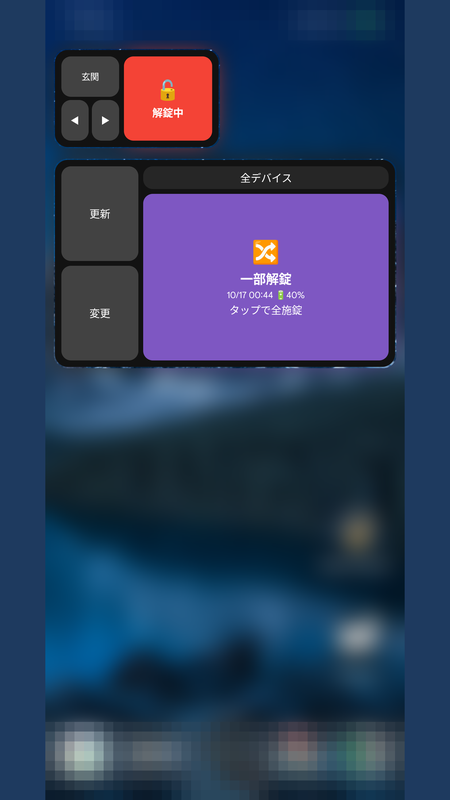
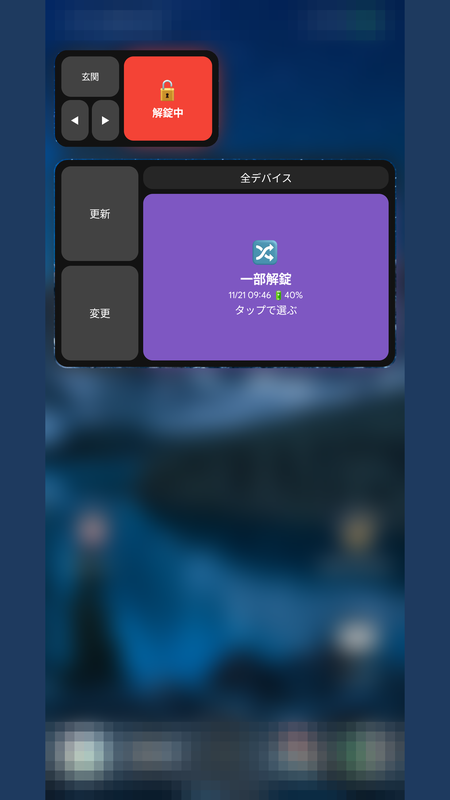
feat: 施錠・解錠を選ぶ画面への統一と操作パネル、Web API不達の切り分け、スマホ不達の通知 (BL-290〜BL-313) (#108)
* docs: 📝 Sesame公式の変更履歴とGitHubの調査結果を記録し、BL-290 / BL-291 を起票する

Sesame公式の変更履歴（2026年10月・11月）と、CANDY-HOUSE/API_document の docs/ja 配下、
SesameSDK_Android_with_DemoApp の2026-09以降の変更を確認し、本アプリへの影響を判定した。
API仕様・BLEの手順に変更は無く、影響なしと判断した項目は CHANGELOG.md に要約した。

- BL-290: Web APIの仕様の出典を公式ドキュメントへ更新する（DESIGN.md / README.md / SesameStatus のKDoc）
- BL-291（要確認）: Web API応答の batteryPercentage を電池残量の表示に使うか

Claude-Session: https://claude.ai/code/session_01WnqNbZ6ebvCGnSnCY76eMN

* docs: 📝 Sesame Web APIの仕様の出典を公式ドキュメントへ更新する

BL-290。CANDY-HOUSE/API_document の webapi.md が本アプリの実装（エンドポイント、
x-api-key、コマンド番号、本文、署名）と一致することを確認し、pysesame3を参考実装、
公式ドキュメントを一次情報として書き分けた。README.md の「公式ドキュメント未参照」と
旧ホストの認証リダイレクトの記述、DESIGN.md の同趣旨の記述、core.api.SesameStatus の
KDoc を更新した。webapi.md と restful.md（公式アプリ内部API、廃止済み）の取り違え注意と、
sign の桁数の観察をDESIGN.mdへ残した。動作の変更は無い。

Claude-Session: https://claude.ai/code/session_01WnqNbZ6ebvCGnSnCY76eMN

* docs: 📝 Sesame上流の定期調査をスキルとサブエージェントとして残す

Sesame公式のChangeLog・API_document・Android SDKの変更確認を、ユーザーの指示で
繰り返し実行できるようにする。起票したid: BL-292（同コミットで完了として削除）。

- Skill sesame-upstream-check: 確認先と照合点、基準点(baseline.md)からの差分調査、
  判定の型、外部取得物の扱い、コスト管理
- Agent sesame-upstream-researcher: 調査と判定のみ。書き込み権限なし
- guardrail-sync-local: 両者を配布元を採らないファイルへ追加
- CHANGELOG.md へ記録

Claude-Session: https://claude.ai/code/session_01WnqNbZ6ebvCGnSnCY76eMN

* docs: 📝 Sesame上流調査のレビュー指摘を反映し、基準点を確認済みの最新へ直す

BL-290 / BL-291 / BL-292 に関する記録の整合を取る。

- CHANGELOG: BL-290 は同ブランチで実施済み、BL-291 のみ要確認で起票と書き分けた
[…]

diff --git a/index.html b/index.html
@@ -51,7 +51,7 @@
           <h1>Sesami Wear<br>手首から<br>鍵をかける</h1>
           <p class="lead">
             Pixel Watch のタイルやスマートフォンのホーム画面ウィジェットから、CANDY HOUSE の
-            Sesame スマートロックをワンタップで施錠・解錠。結果は振動で伝わるので、画面を見返す必要はありません。
+            Sesame スマートロックを施錠・解錠。結果は振動で伝わるので、画面を見返す必要はありません。
           </p>
           <div class="actions">
             <a class="button primary" href="https://github.com/filderschoice/sesami-wear/blob/main/docs/CLOSED_TEST.md">クローズドテストに参加</a>
@@ -69,29 +69,29 @@
     <section id="flow">
       <div class="container">
         <h2>操作の流れ</h2>
-        <p class="section-lead">解錠までの操作は 3 ステップです。施錠は確認なしの 1 タップで、結果は振動で伝わります。</p>
+        <p class="section-lead">タップして、施錠か解錠かを選ぶだけです。結果は振動で伝わります。全台をまとめて操作するときは、操作パネルのタイルが便利です。</p>
         <div class="flow-grid">
-          <div class="demo" role="img" aria-label="ウォッチの操作イメージ。タイルをタップし、確認画面で全解錠を押すと、タイルが解錠中の表示に変わる（約9秒で繰り返すアニメーション）">
+          <div class="demo" role="img" aria-label="ウォッチの操作イメージ。タイルをタップすると施錠・解錠を選ぶ画面が開き、全施錠か全解錠を押して実行する。全台と台ごとの操作は操作パネルのタイルにもまとまっている（約9秒で繰り返すアニメーション）">
             <img class="demo-frame f1" src="assets/wear-tile-locked.png" alt="" width="384" height="384">
             <img class="demo-frame f2" src="assets/wear-unlock-confirm.png" alt="" width="384" height="384">
-            <img class="demo-frame f3" src="assets/wear-3-tile-unlocked.png" alt="" width="384" height="384">
+            <img class="demo-frame f3" src="assets/wear-control-panel.png" alt="" width="384" height="384">
             <p class="demo-caption c1">① タイルの大きなボタンをタップ</p>
-            <p class="demo-caption c2">② 確認画面で「全解錠」を押す</p>
-            <p class="demo-caption c3">③ 解錠。成功は振動でも伝わる</p>
+            <p class="demo-caption c2">② 「全施錠」か「全解錠」を押す</p>
+            <p class="demo-caption c3">③ 操作パネルなら全台も台ごとも1枚で</p>
           </div>
           <ol class="flow-steps">
-            <li><strong>タップ</strong>タイルのボタンが、現在の状態と次の操作を示します。</li>
-            <li><strong>確認</strong>解錠だけは確認を挟み、手首が当たった程度では開きません。施錠は確認なしです。</li>
+            <li><strong>タップ</strong>タイルのボタンが現在の状態を示し、タップすると施錠・解錠を選ぶ画面が開きます。</li>
+            <li><strong>選ぶ</strong>施錠・解錠を選ぶ画面で押したときだけ実行します。手首が当たった程度では開きません。</li>
             <li><strong>結果</strong>成功と失敗は異なる振動パターンで伝わります。画面を見返す必要はありません。</li>
           </ol>
         </div>
         <h3 class="spaced">スマートフォンのウィジェットでも同じ操作</h3>
         <ul class="flow-row">
-          <li><img class="phone" src="assets/phone-widget.png" alt="ホーム画面のウィジェット。全デバイスが施錠中で、全解錠のボタンが緑色に表示されている" width="450" height="800" loading="lazy"><span>① 施錠中のウィジェットをタップ</span></li>
+          <li><img class="phone" src="assets/phone-widget.png" alt="ホーム画面のウィジェット。全デバイスが施錠中で、緑色のボタンに「タップで選ぶ」と表示されている" width="450" height="800" loading="lazy"><span>① ウィジェットをタップ</span></li>
           <li class="arrow" aria-hidden="true">→</li>
-          <li><img class="phone" src="assets/phone-2-widget-unlock-confirm.png" alt="ウィジェットの下に「全デバイスを解錠しますか？」の確認ダイアログが出ている" width="450" height="800" loading="lazy"><span>② 確認ダイアログで「全解錠」</span></li>
+          <li><img class="phone" src="assets/phone-2-widget-unlock-confirm.png" alt="ウィジェットの上に「全デバイスの操作を選んでください」の画面が出ていて、キャンセル・全施錠・全解錠のボタンが並ぶ" width="450" height="800" loading="lazy"><span>② 「全施錠」か「全解錠」を押す</span></li>
           <li class="arrow" aria-hidden="true">→</li>
-          <li><img class="phone" src="assets/phone-3-widget-unlocked.png" alt="ウィジェットが赤色の「解錠中」の表示に変わっている" width="450" height="800" loading="lazy"><span>③ 赤い「解錠中」に変わる</span></li>
+          <li><img class="phone" src="assets/phone-3-widget-unlocked.png" alt="小さいウィジェットは玄関が赤色の「解錠中」、大きいウィジェットは全デバイスが紫色の「一部解錠」の表示になっている" width="450" height="800" loading="lazy"><span>③ 結果の状態に変わる</span></li>
         </ul>
       </div>
     </section>
@@ -105,8 +105,8 @@
         <ul class="features">
           <li class="card">
             <span class="tag">タイル</span>
-            <h3>ワンタップで施錠・解錠</h3>
-            <p>Wear OS のタイルから操作します。施錠は即時、解錠は誤操作を防ぐため確認を挟みます。通信中はボタンを無効にして二重送信を防ぎます。ウォッチのアプリの一覧からも、セサミの欄をタップして同じように操作でき、末尾の「更新」「全施錠」「すべて更新」でまとめて扱えます。</p>
+            <h3>タイルから施錠・解錠</h3>
+            <p>Wear OS のタイルから操作します。タップすると施錠・解錠を選ぶ画面が開き、押したときだけ実行するので誤操作を防げます。全台と台ごとの施錠・解錠を1枚にまとめた操作専用のタイル「Sesami 操作パネル」もあります。通信中はボタンを無効にして二重送信を防ぎます。ウォッチのアプリの一覧からも、セサミの欄をタップして同じように操作でき、末尾の「更新」「全台の鍵を操作」「すべて更新」でまとめて扱えます。</p>
           </li>
           <li class="card">
             <span class="tag">振動</span>
@@ -172,13 +172,13 @@
       <div class="container">
         <h2>画面</h2>
         <h3>ウォッチ</h3>
-        <p class="section-lead">Pixel Watch 2 での表示です（0.14.0。コンプリケーションは以前の版で撮影）。</p>
+        <p class="section-lead">Pixel Watch 2 での表示です（タイル・選ぶ画面・操作パネルは 0.17.0、そのほかは以前の版で撮影）。</p>
         <!-- TEMPLATE: 画面のスクリーンショット（1 枚 = 1 つの li。不要ならセクションごと削除） -->
         <ul class="features">
           <li class="card">
-            <img src="assets/wear-tile-locked.png" alt="ウォッチのタイル。全デバイスが施錠中で、タップで全解錠できることを示す緑のボタンと、更新・変更のボタンが並ぶ" width="384" height="384">
+            <img src="assets/wear-tile-locked.png" alt="ウォッチのタイル。全デバイスが施錠中で、「タップで選ぶ」と表示された緑のボタンと、更新・変更のボタンが並ぶ" width="384" height="384">
             <h3>タイル（施錠中）</h3>
-            <p>大きなボタンが状態と次の操作を示します。</p>
+            <p>大きなボタンが状態を示し、タップで施錠・解錠を選べます。</p>
           </li>
           <li class="card">
             <img src="assets/wear-tile-mixed.png" alt="ウォッチのタイル。全デバイスのうち一部だけが解錠されている状態を紫のボタンで示している" width="384" height="384">
@@ -186,9 +186,9 @@
             <p>複数台の状態が揃っていないことも一目で分かります。</p>
           </li>
           <li class="card">
-            <img src="assets/wear-unlock-confirm.png" alt="解錠の確認画面。左にキャンセル、右に赤い全解錠のボタンがある" width="384" height="384">
-            <h3>解錠の確認</h3>
-            <p>解錠だけは確認を挟み、誤操作を防ぎます。</p>
+            <img src="assets/wear-unlock-confirm.png" alt="施錠・解錠を選ぶ画面。左に緑の全施錠、右に赤い全解錠のボタンがある" width="384" height="384">
+            <h3>施錠・解錠を選ぶ</h3>
+            <p>押したほうだけを実行します。やめるときは右へスワイプします。</p>
           </li>
           <li class="card">
             <img src="assets/wear-complication.png" alt="ウォッチフェイス。時刻の下に並ぶコンプリケーションのひとつに「施錠」と表示されている" width="384" height="384">
@@ -196,9 +196,9 @@
             <p>文字盤から現在の状態を確認できます。</p>
           </li>
           <li class="card">
-            <img src="assets/wear-3-tile-unlocked.png" alt="ウォッチのタイル。全デバイスが解錠中で、タップで全施錠できることを示す赤いボタンが表示されている" width="384" height="384" loading="lazy">
-            <h3>タイル（解錠中）</h3>
-            <p>もう一度タップすれば、確認なしで全施錠します。</p>
+            <img src="assets/wear-control-panel.png" alt="操作専用タイル「Sesami 操作パネル」。上に「全台の鍵を操作」のボタン、下に玄関・勝手口・ガレージの状態のボタンが並び、玄関だけ解錠中の赤になっている" width="384" height="384" loading="lazy">
+            <h3>操作パネル</h3>
+            <p>全台の操作も台ごとの操作も、選ぶ画面で押して実行します。</p>
           </li>
           <li class="card">
             <img src="assets/wear-6-device-select.png" alt="ウォッチのデバイス選択画面。タイルで操作する対象のデバイスを選ぶ一覧" width="384" height="384" loading="lazy">
@@ -212,12 +212,12 @@
           </li>
         </ul>
         <h3 class="spaced">スマートフォン</h3>
-        <p class="section-lead">Pixel 8 Pro での表示です（0.14.3。個人情報の写る部分は加工しています）。</p>
+        <p class="section-lead">Pixel 8 Pro での表示です（デバイス一覧は 0.17.0、そのほかは以前の版で撮影。個人情報の写る部分は加工しています）。</p>
         <ul class="features">
           <li class="card">
-            <img class="phone" src="assets/phone-4-device-list.png" alt="アプリのデバイス一覧。玄関・勝手口・ガレージの3台が、施錠状態・電池残量・経路とともに並び、右上のBluetoothアイコンと各カードの接続確認から接続を確かめられる" width="450" height="800" loading="lazy">
+            <img class="phone" src="assets/phone-4-device-list.png" alt="アプリのデバイス一覧。玄関・勝手口・ガレージの3台が、施錠状態・電池残量・経路とともに並び、各カードに「鍵を操作」と「Bluetooth」のボタンがある" width="450" height="800" loading="lazy">
             <h3>デバイス一覧</h3>
-            <p>状態・電池残量・操作した経路を、デバイスごとに確認できます。</p>
+            <p>状態・電池残量・操作した経路を、デバイスごとに確認できます。「鍵を操作」から施錠・解錠もできます。</p>
           </li>
           <li class="card">
             <img class="phone" src="assets/phone-8-dial.png" alt="ダイヤル操作の画面。円の中の針でサムターンの角度を示し、円を半周なぞると施錠・解錠できる" width="450" height="800" loading="lazy">
@@ -274,7 +274,7 @@
           <li>SESAME Biz 開発者ページ（biz.candyhouse.co）で、uuid・apikey・secretKey の 3 点を確認・発行します。</li>
           <li>スマートフォンの Sesami Wear を開き、3 点とデバイス名を登録します（端末内に暗号化して保存します）。</li>
           <li>ウォッチにも Sesami Wear をインストールします（ウォッチの Google Play で検索。スマートフォンに入れただけでは入りません）。ウォッチのタイル一覧で「＋」から Sesami Wear を追加し、操作したいデバイスを選びます。ウォッチが無い場合はホーム画面にウィジェットを置きます。</li>
-          <li>ボタンをタップすると施錠します。解錠は確認画面で「解錠」を押します。成功・失敗は振動で分かります。</li>
+          <li>ボタンをタップすると施錠・解錠を選ぶ画面が開きます。「施錠」か「解錠」を押すと実行し、成功・失敗は振動で分かります。全台をまとめて操作するときは、操作パネルのタイルも使えます。</li>
         </ol>
         <p class="spaced">詳しい手順は<a href="https://github.com/filderschoice/sesami-wear/blob/main/docs/USER_GUIDE.md">利用ガイド</a>を参照してください。</p>
       </div>

diff --git a/README.md b/README.md
@@ -21,7 +21,7 @@ Sesami Wear を紹介する静的な 1 ページです。Romcha（`C:\Dev\repo\p
 | `icon.svg` | アプリのアイコン | `mobile/src/main/res/drawable/ic_launcher_*.xml`（リングの `trimPath` は円弧へ置き換え） |
 | `how-it-works.svg` | 仕組みの図解 | DESIGN.md「アーキテクチャ方針」 |
 | `phone-widget.png` | ヒーローの画面（ホーム画面ウィジェット） | `docs/store/images/screenshots/phone_1_widget_locked.png` を 450x800 へ縮小 |
-| `wear-*.png` | 「操作の流れ」「画面」セクションのウォッチ画面 | `docs/store/images/screenshots/wear_1`〜`wear_6`（384x384 のまま） |
+| `wear-*.png` | 「操作の流れ」「画面」セクションのウォッチ画面 | `docs/store/images/screenshots/wear_1`〜`wear_6`・`wear_10`（384x384 のまま。`wear-control-panel.png` は `wear_10_control_panel.png`） |
 | `phone-*.png` | 「操作の流れ」「画面」セクションのスマートフォン画面 | `docs/store/images/screenshots/phone_2`〜`phone_8` を 450x800 へ縮小（`phone-widget.png` は phone_1） |
 | `radar-phone-*.png` / `radar-wear-*.png` | 「Bluetooth接続を確認」（レーダー）画面のイメージ（探索中・発見・接続OK・圏外の4状態。スマートフォン450x800、ウォッチ384x384）。**実機のスクリーンショットではなく、実装の寸法・色・文言を転記して描いたイメージ画像**で、現時点では`index.html`に掲載していない（今後の掲載・ドキュメント用） | `scripts/generate-radar-images.py`で生成（BL-277） |
 
@@ -45,7 +45,7 @@ Sesami Wear を紹介する静的な 1 ページです。Romcha（`C:\Dev\repo\p
 
 ## テンプレート（Romcha）からの差分
 
-- 「操作の流れ」セクション（`#flow`）を追加した。ウォッチのタイル→確認→解錠を CSS だけで切り替えるアニメーション
+- 「操作の流れ」セクション（`#flow`）を追加した。ウォッチのタイル→施錠・解錠を選ぶ画面→操作パネルを CSS だけで切り替えるアニメーション
   （`prefers-reduced-motion` では 3 枚の並びにする）と、ウィジェットの 3 コマを載せている。
 - 「画面」セクション（`#screens`）を追加した（ウォッチ・スマートフォンの 2 組）。機能カードと同じ `.features` の並びに、スクリーンショットを載せたカードを置く。
 - 上記のため `style.css` に `.card img` を 1 つ追加した（丸いウォッチ画面に合わせて円形に切り抜く）。
